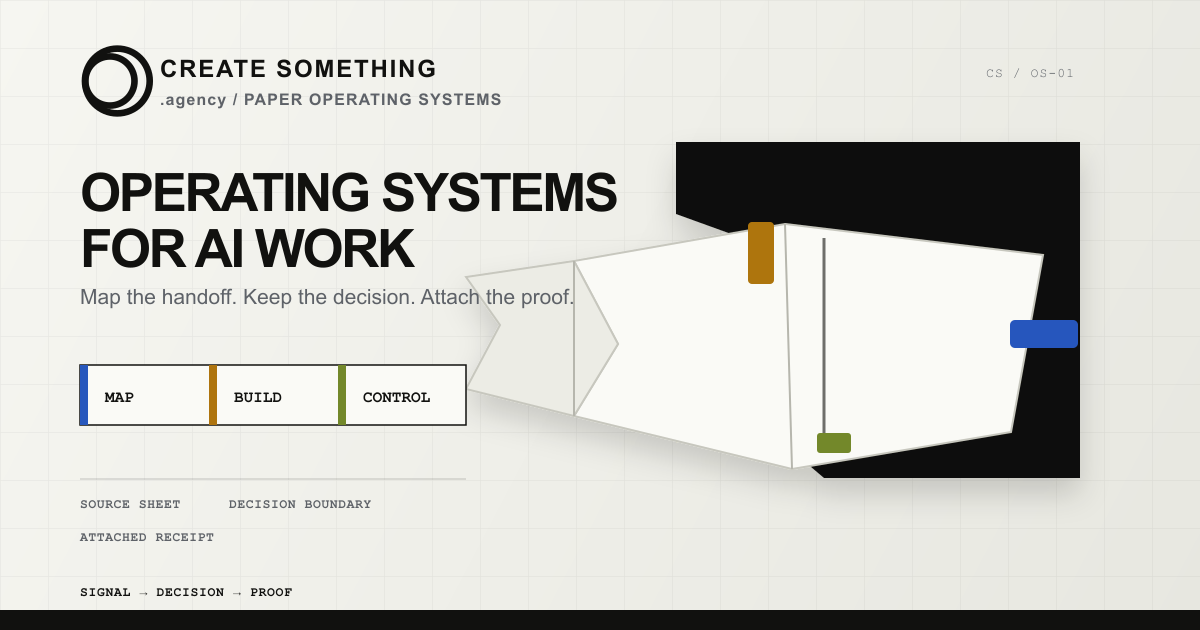
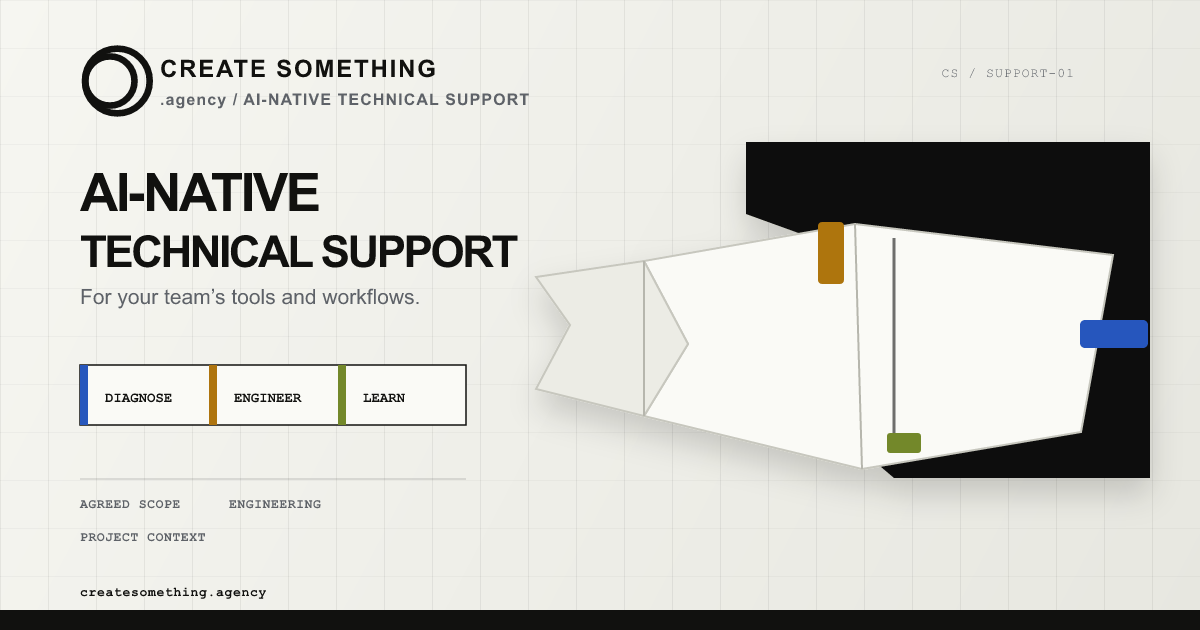
Refresh Agency social preview for technical support positioning

diff --git a/packages/agency/test/paper-brand-cohesion.test.ts b/packages/agency/test/paper-brand-cohesion.test.ts
@@ -247,7 +247,7 @@ test('Workflow library opens with a route-specific macro Playbook hero and autho
   }
 });
 
-test('the shared social preview is a current, served Paper operating-system artifact', () => {
+test('the shared social preview states the current technical support positioning', () => {
   const svgPath = resolve(agencyRoot, 'static/og-image.svg');
   const pngPath = resolve(agencyRoot, 'static/og-image.png');
   const svg = read('static/og-image.svg');
@@ -259,15 +259,15 @@ test('the shared social preview is a current, served Paper operating-system arti
     'served raster social card should not be a placeholder'
   );
   for (const label of [
-    'OPERATING SYSTEMS',
-    'FOR AI WORK',
-    'MAP',
-    'BUILD',
-    'CONTROL',
-    'SOURCE SHEET',
-    'DECISION BOUNDARY',
-    'ATTACHED RECEIPT',
-    'SIGNAL → DECISION → PROOF'
+    'AI-NATIVE',
+    'TECHNICAL SUPPORT',
+    'For your team’s tools and workflows.',
+    'DIAGNOSE',
+    'ENGINEER',
+    'LEARN',
+    'AGREED SCOPE',
+    'PROJECT CONTEXT',
+    'createsomething.agency'
   ]) {
     assert.ok(svg.includes(label), `social preview must include ${label}`);
   }

diff --git a/packages/agency/docs/AI_NATIVE_SUPPORT_POSITIONING_REVIEW.md b/packages/agency/docs/AI_NATIVE_SUPPORT_POSITIONING_REVIEW.md
@@ -25,3 +25,13 @@ Agency has no dedicated lint script. The repository's scoped workspace lint comm
 ## Delivery boundary
 
 Worktree disposition: preserved at `/Users/micahjohnson/Documents/Codex/2026-10-02/task-4/agency-positioning`, branch `codex/agency-ai-native-support`. The original checkout's unrelated dirty work is preserved. This is local review work only: no push, PR, merge, deployment, credential changes, access grants, social profiles, or social posts.
+
+## Open Graph follow-up
+
+Updated the editable `static/og-image.svg` and its served `static/og-image.png` export to AI-native technical support. Retained the paper grid, brand mark, procedural illustration and established palette. The process strip now reads Diagnose / Engineer / Learn; agreed scope and project context support the recurring relationship. Other route-specific, historical and project images were preserved.
+
+The shared URL remains `/og-image.png`; Canon SEO supplies both OG and Twitter references, absolute Agency URLs, PNG type, and 1200×630 metadata. The PNG is 1200×630. Reviewed the full export and a 600×315 thumbnail for readable headings, safe margins and no illustration overlap. The SVG is the editable master; the existing render-pipeline dependency `@resvg/resvg-js` regenerates the PNG with system fonts.
+
+Affected tests passed: 14 brand/identity asset tests, 71 copy tests and 13 SEO/marketing tests. Production build passed. Local rendered OG and Twitter metadata both resolve to `https://createsomething.agency/og-image.png`; the local served PNG loaded completely at 1200×630. The optional cross-property identity suite has two failures also reproduced unchanged in the original checkout: V3 shell assets and route override contracts. These concern other public-property source, not the Agency share-image change. Evidence logs are retained with the earlier review evidence.
+
+The updated PNG was successfully saved as a new Library image preview (`/og-image.png`). This save is a private deliverable, not publication of the website or a social post.
